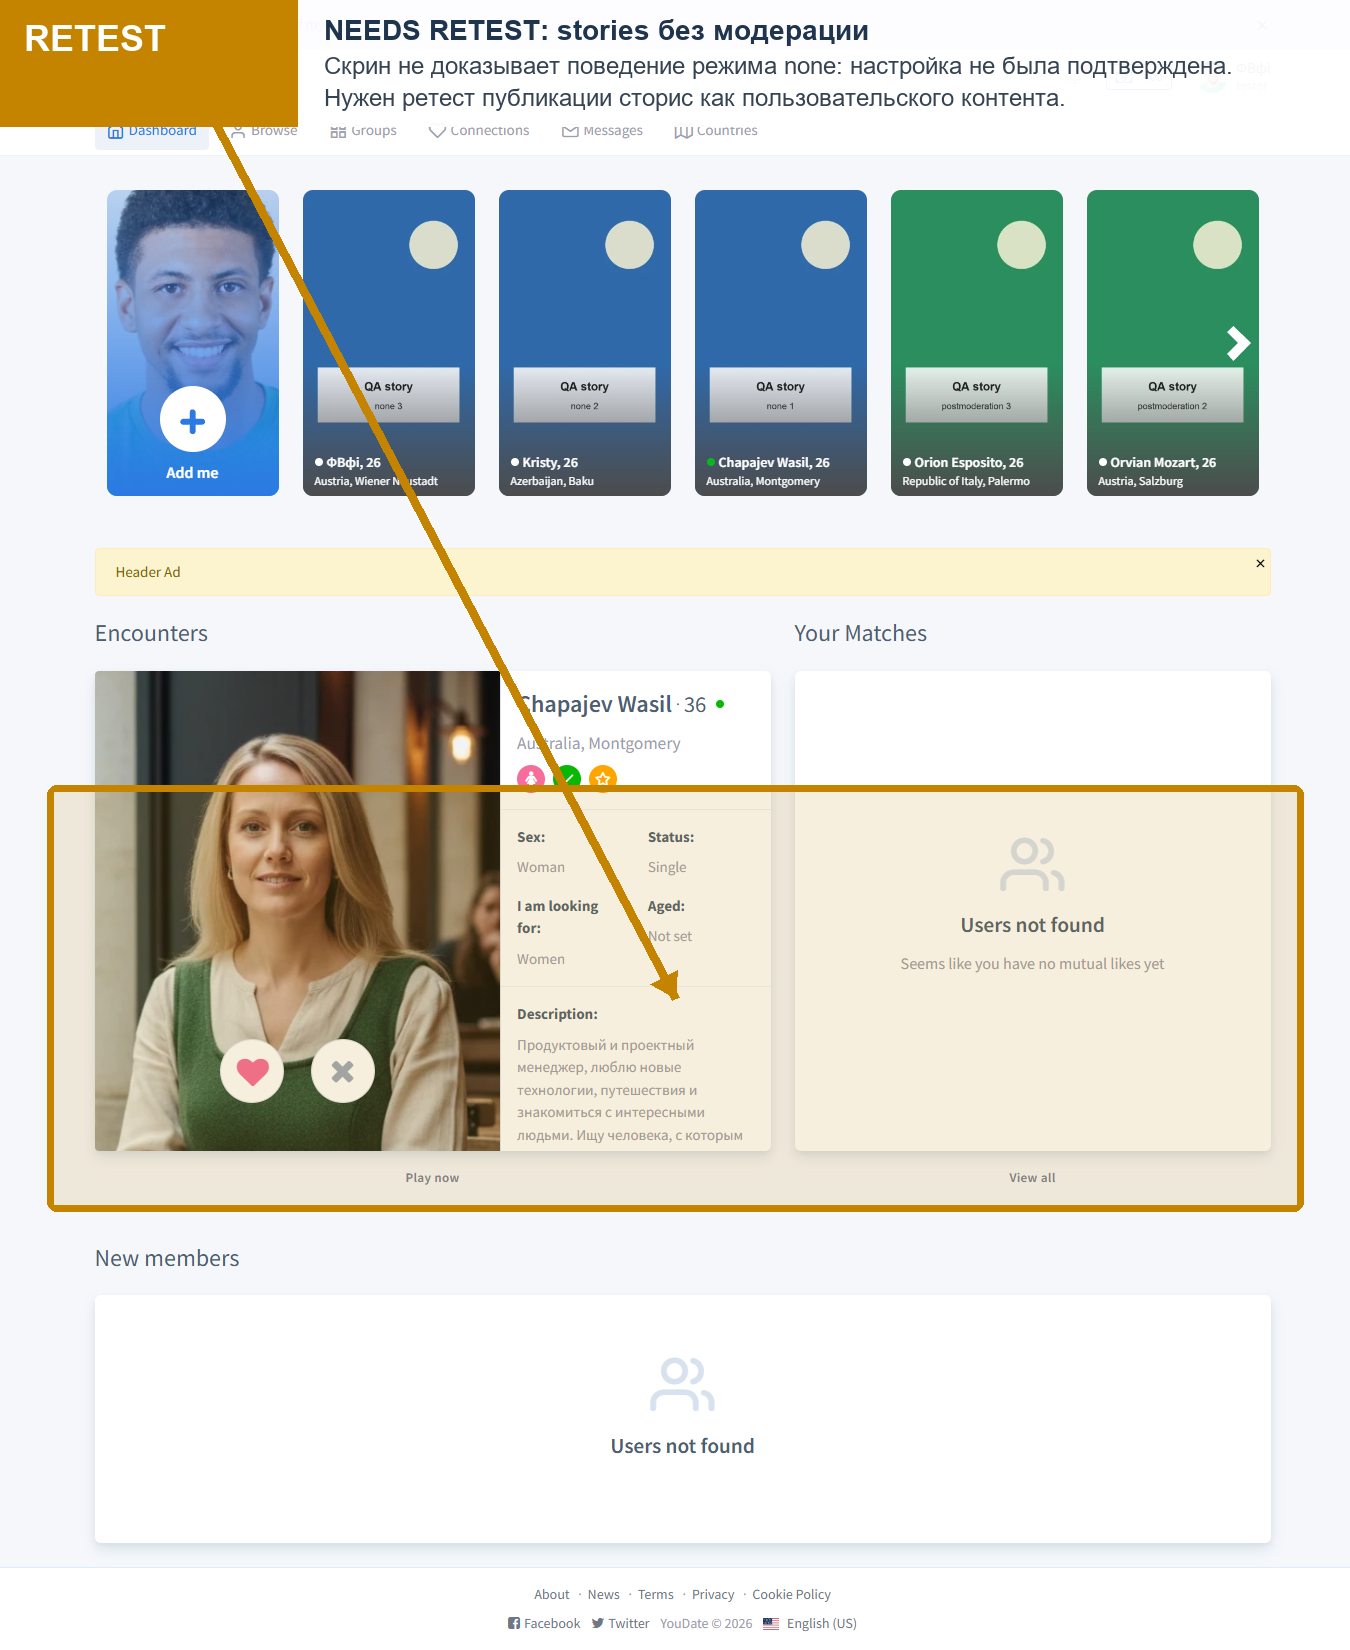
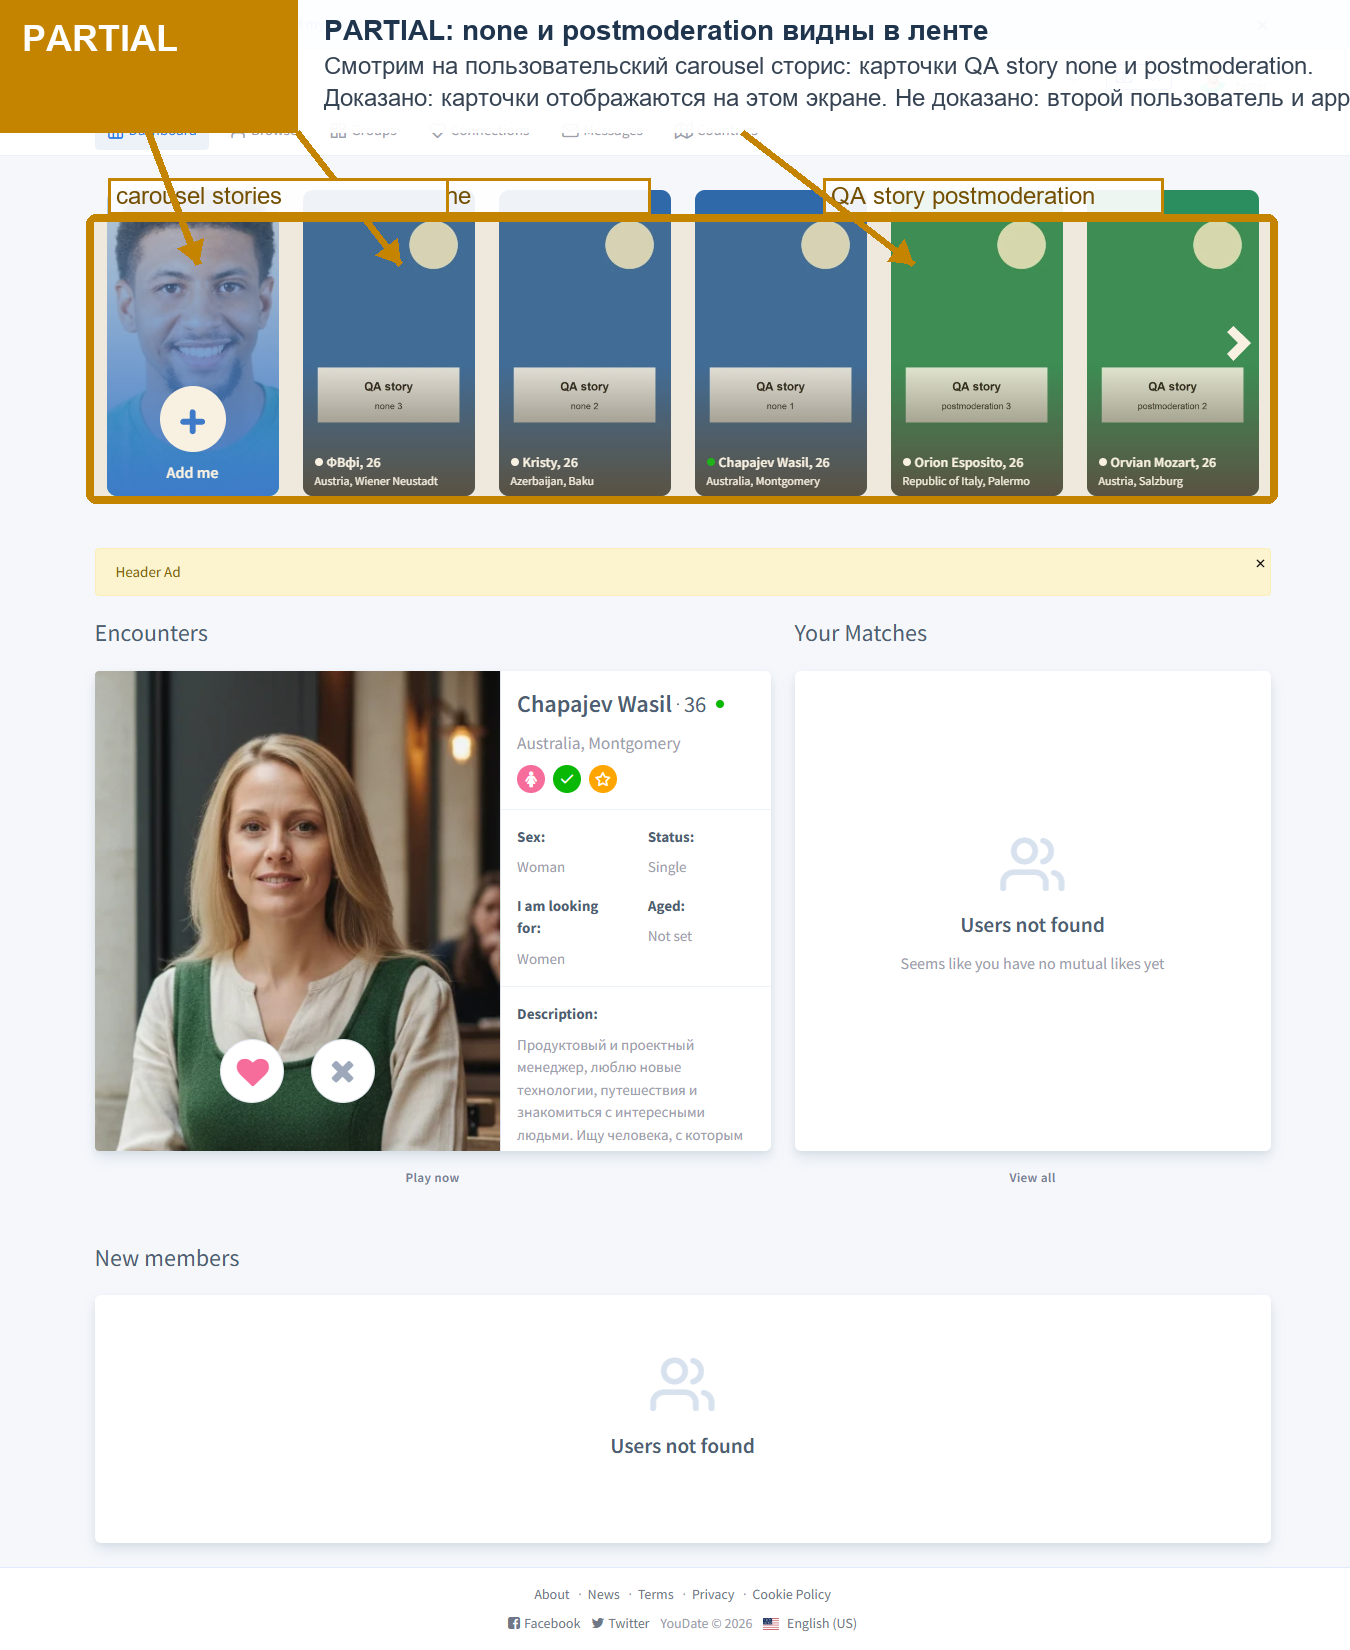
Fix stories evidence to user carousel

diff --git a/web/qa-reports/moderation-full-2026-05-07/index.html b/web/qa-reports/moderation-full-2026-05-07/index.html
@@ -55,13 +55,6 @@
               <td>Settings model/view для stories; добавить/проверить отдельные поля photo/video moderation mode или уточнить ТЗ.</td>
             </tr>
             <tr>
-              <td><span class="qa-badge qa-badge--warn">P1</span></td>
-              <td>Stories moderation behavior</td>
-              <td>Предыдущая формулировка про <code>postmoderation/none</code> была некорректной: тест смотрел на строку <code>Story</code> в общей админской фото-очереди, а не на продуктовую видимость сторис. Дополнительно в run-данных видно, что примененная настройка stories оставалась <code>postmoderation</code> даже в блоках, названных <code>premoderation</code> и <code>none</code>.</td>
-              <td>Для stories нужно проверять: автор загрузил сторис, сторис видна/не видна автору, другому пользователю и в админской очереди согласно выбранному режиму. Статус media row сам по себе не доказывает публикацию сторис.</td>
-              <td>Нужен отдельный ретест stories с подтверждением сохраненной настройки и проверкой видимости через пользовательский интерфейс.</td>
-            </tr>
-            <tr>
               <td><span class="qa-badge qa-badge--fail">P1</span></td>
               <td>Gallery photo postmoderation</td>
               <td>При <code>photoGalleryModerationMode=postmoderation</code> gallery IDs <code>830,831,832</code> попали в <code>Pending</code>, а не в active/published state.</td>
@@ -104,10 +97,9 @@
             <tr><td>Gallery photo</td><td><code>/en/admin/settings/photo</code></td><td>postmoderation</td><td>IDs <code>830,831,832</code> стали <code>Pending</code>.</td><td><span class="qa-badge qa-badge--fail">FAIL</span></td></tr>
             <tr><td>Gallery photo</td><td><code>/en/admin/settings/photo</code></td><td>none</td><td>IDs <code>833,834,835</code> стали <code>Approved/ActiveOrHidden</code>.</td><td><span class="qa-badge qa-badge--pass">PASS</span></td></tr>
             <tr><td>Main profile photo</td><td><code>/en/admin/settings/photo</code></td><td>all modes</td><td>Upload/crop UI открывается, но новый photo ID не создается: page показывает <code>From Photo Id must be an integer</code>.</td><td><span class="qa-badge qa-badge--warn">NOT PROVEN</span></td></tr>
-            <tr><td>Stories photo</td><td><code>/en/admin/settings/stories</code></td><td>premoderation</td><td>Создавались записи <code>Story</code> в общей media queue; продуктовая видимость сторис автору/другому пользователю не проверена.</td><td><span class="qa-badge qa-badge--warn">NEEDS RETEST</span></td></tr>
-            <tr><td>Stories photo</td><td><code>/en/admin/settings/stories</code></td><td>postmoderation</td><td>Данные run показывают <code>appliedSettings.storiesMode=postmoderation</code> и новые <code>Story</code> rows в queue, но не доказывают, была ли сторис опубликована в пользовательском интерфейсе.</td><td><span class="qa-badge qa-badge--warn">NEEDS RETEST</span></td></tr>
-            <tr><td>Stories photo</td><td><code>/en/admin/settings/stories</code></td><td>none</td><td>Тестовый блок <code>none</code> недействителен: после сохранения настройка в evidence осталась <code>postmoderation</code>; вывод про no-moderation делать нельзя.</td><td><span class="qa-badge qa-badge--warn">INVALID / RETEST</span></td></tr>
-            <tr><td>Stories video</td><td><code>/en/admin/settings/stories</code></td><td>all modes</td><td>Отдельного video moderation select в live UI нет; video upload не закрыт отдельным сценарием.</td><td><span class="qa-badge qa-badge--fail">CONFIG GAP</span></td></tr>
+            <tr><td>Stories settings</td><td><code>/en/admin/settings/stories</code></td><td>configuration</td><td>В UI найден один общий <code>Stories moderation mode</code>; отдельных режимов для photo/video stories нет.</td><td><span class="qa-badge qa-badge--fail">CONFIG GAP</span></td></tr>
+            <tr><td>Stories photo</td><td><code>user home stories carousel</code></td><td>postmoderation</td><td>На пользовательском экране видны карточки <code>QA story postmoderation 1-3</code> в горизонтальной ленте сторис. Это доказывает user-side отображение на проверенном экране, но не доказывает видимость другому пользователю.</td><td><span class="qa-badge qa-badge--warn">PARTIAL</span></td></tr>
+            <tr><td>Stories photo</td><td><code>user home stories carousel</code></td><td>none + postmoderation</td><td>На пользовательском экране одновременно видны карточки <code>QA story none 1-3</code> и <code>QA story postmoderation 2-3</code>. Это доказательство отображения карточек в ленте, а не доказательство полного moderation lifecycle.</td><td><span class="qa-badge qa-badge--warn">PARTIAL</span></td></tr>
             <tr><td>Group avatar</td><td><code>/en/admin/settings/groups</code></td><td>premoderation</td><td>3 попытки upload, admin rows <code>Rejected</code>.</td><td><span class="qa-badge qa-badge--pass">PASS</span></td></tr>
             <tr><td>Group cover</td><td><code>/en/admin/settings/groups</code></td><td>premoderation</td><td>3 попытки upload, admin rows <code>Rejected</code>.</td><td><span class="qa-badge qa-badge--pass">PASS</span></td></tr>
             <tr><td>Group avatar/cover</td><td><code>/en/admin/settings/groups</code></td><td>postmoderation</td><td>3 attempts, rows <code>Approved/Approved</code>.</td><td><span class="qa-badge qa-badge--pass">PASS</span></td></tr>
@@ -132,17 +124,17 @@
           <figcaption><strong class="qa-shot-status"><span class="qa-badge qa-badge--fail">FAIL</span><span>Settings stories</span></strong>Что тестировал: поля settings stories. Что получил: только один <code>storiesModerationMode</code>, отдельных photo/video moderation mode нет.<span class="qa-shot-comment">Комментарий: это прямое расхождение с ТЗ, потому что фото и видео stories должны настраиваться отдельно.</span></figcaption>
           <img src="./assets/annotated/settings-stories.png" alt="Stories settings annotated">
         </figure>
+        <figure class="qa-shot qa-shot--warn">
+          <figcaption><strong class="qa-shot-status"><span class="qa-badge qa-badge--warn">PARTIAL</span><span>Stories postmoderation</span></strong>Что тестировал: появилась ли загруженная сторис в пользовательской горизонтальной ленте сторис. Что получил: карточки <code>QA story postmoderation</code> видны в ленте на пользовательском экране.<span class="qa-shot-comment">Вывод: это не FAIL. Доказана видимость сторис на проверенном пользовательском экране. Для полного PASS нужно дополнительно проверить эту же сторис со стороны другого пользователя и отдельно пройти режимы <code>premoderation</code> / <code>none</code>.</span></figcaption>
+          <img src="./assets/annotated/stories-postmoderation-attempt-3.png" alt="Stories postmoderation user carousel annotated">
+        </figure>
+        <figure class="qa-shot qa-shot--warn">
+          <figcaption><strong class="qa-shot-status"><span class="qa-badge qa-badge--warn">PARTIAL</span><span>Stories none + postmoderation</span></strong>Что тестировал: видны ли карточки сторис в пользовательской горизонтальной ленте. Что получил: в carousel видны <code>QA story none</code> и <code>QA story postmoderation</code>.<span class="qa-shot-comment">Вывод: это пользовательское evidence, на него можно смотреть. Оно доказывает отображение карточек в ленте на этом экране, но не закрывает проверку видимости вторым пользователем, ручного approve/reject и полного поведения всех режимов.</span></figcaption>
+          <img src="./assets/annotated/stories-none-attempt-3.png" alt="Stories none and postmoderation user carousel annotated">
+        </figure>
         <figure class="qa-shot qa-shot--fail">
           <figcaption><strong class="qa-shot-status"><span class="qa-badge qa-badge--fail">FAIL</span><span>Settings groups</span></strong>Что тестировал: fields settings groups. Что получил: avatar/cover moderation mode есть, также найден <code>groupPostModerationMode</code>.<span class="qa-shot-comment">Комментарий: поле постов в settings конфликтует с ТЗ, где посты групп модерируются отдельным интерфейсом.</span></figcaption>
           <img src="./assets/annotated/settings-groups.png" alt="Groups settings annotated">
-        </figure>
-        <figure class="qa-shot qa-shot--warn">
-          <figcaption><strong class="qa-shot-status"><span class="qa-badge qa-badge--warn">NEEDS RETEST</span><span>Stories postmoderation</span></strong>Что тестировал фактически: появление записи <code>Story</code> в общей админской media queue после загрузки. Что нужно было тестировать: опубликована ли сторис как пользовательский контент, видит ли ее автор и видит ли ее другой пользователь без ручного approve.<span class="qa-shot-comment">Вывод: этот скрин нельзя использовать как доказательство бага postmoderation. Он показывает только админскую очередь media, а не продуктовую видимость сторис.</span></figcaption>
-          <img src="./assets/annotated/stories-postmoderation-attempt-3.png" alt="Stories postmoderation attempt annotated">
-        </figure>
-        <figure class="qa-shot qa-shot--warn">
-          <figcaption><strong class="qa-shot-status"><span class="qa-badge qa-badge--warn">INVALID / RETEST</span><span>Stories без модерации</span></strong>Что тестировал фактически: появление <code>Story</code> media row после загрузки. Что получил по данным run: блок назывался <code>none</code>, но сохраненная настройка в evidence осталась <code>postmoderation</code>.<span class="qa-shot-comment">Вывод: прежний вывод по режиму <code>none</code> из этого скрина делать нельзя. Нужен повторный тест: сохранить <code>none</code>, подтвердить значение в админке, загрузить новую сторис и проверить видимость у автора и другого пользователя.</span></figcaption>
-          <img src="./assets/annotated/stories-none-attempt-3.png" alt="Stories none attempt annotated">
         </figure>
         <figure class="qa-shot qa-shot--pass">
           <figcaption><strong class="qa-shot-status"><span class="qa-badge qa-badge--pass">PASS</span><span>Group update buttons</span></strong>Что тестировал: group update moderation buttons. Что получил: на <code>/en/admin/group/update?id=10</code> есть <code>Approve logo</code> и <code>Approve cover</code>.<span class="qa-shot-comment">Комментарий: требуемые кнопки для визуального контента группы присутствуют.</span></figcaption>
@@ -178,8 +170,8 @@
           <thead><tr><th>Run</th><th>Status</th><th>Что покрыл</th><th>State / rollback</th></tr></thead>
           <tbody>
             <tr><td><code>moderation-surface-discovery-20260506-210453</code></td><td><span class="qa-badge qa-badge--pass">PASS</span></td><td>Settings fields, group update, group posts routes, media approvals.</td><td>Read-only</td></tr>
-            <tr><td><code>photo-stories-moderation-full-20260507-000552</code></td><td><span class="qa-badge qa-badge--fail">FAIL</span></td><td>Photo gallery/main modes and partial stories before retry.</td><td>Photo/stories settings restored to baseline</td></tr>
-            <tr><td><code>stories-moderation-full-20260507-002117</code></td><td><span class="qa-badge qa-badge--fail">FAIL_BUG_FOUND</span></td><td>Stories all modes after upload stabilization.</td><td>Stories settings restored to baseline</td></tr>
+            <tr><td><code>photo-stories-moderation-full-20260507-000552</code></td><td><span class="qa-badge qa-badge--fail">FAIL</span></td><td>Photo gallery/main modes. Stories evidence from this run is excluded from product conclusions because it did not prove user-visible story behavior.</td><td>Photo/stories settings restored to baseline</td></tr>
+            <tr><td><code>stories-moderation-full-20260507-002117</code></td><td><span class="qa-badge qa-badge--warn">EVIDENCE EXCLUDED</span></td><td>Excluded from stories behavior verdict: screenshots and queue rows did not show the actual user-facing story surface.</td><td>Stories settings restored to baseline</td></tr>
             <tr><td><code>group-media-moderation-full-20260507-000552</code></td><td><span class="qa-badge qa-badge--warn">PASS_WITH_WARNINGS</span></td><td>Group avatar/cover modes, 3 attempts each.</td><td>Settings restored to baseline</td></tr>
             <tr><td><code>group-posts-moderation-audit-20260506-212020</code></td><td><span class="qa-badge qa-badge--warn">PASS_WITH_GAPS</span></td><td>Group posts list, hide modal, hidden reason, no physical delete, reopen surface.</td><td>Post 14 intentionally left Hidden as moderation test evidence</td></tr>
           </tbody>
